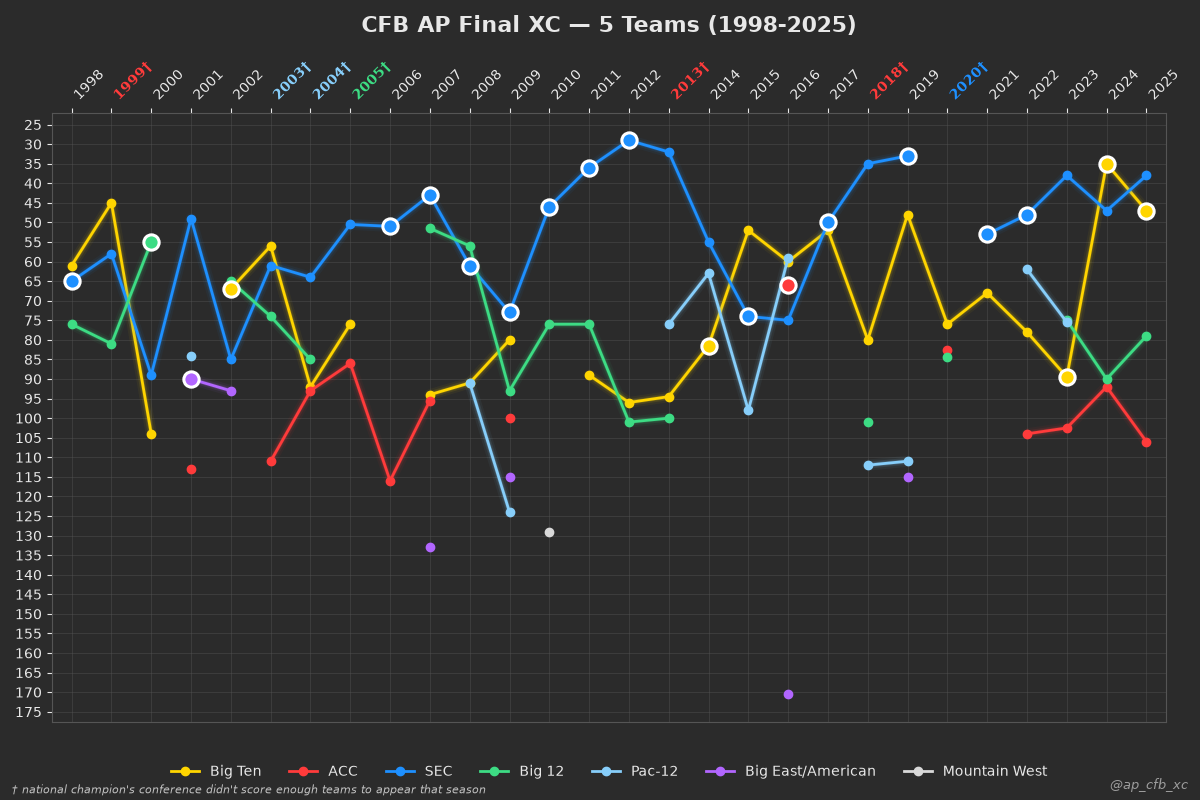
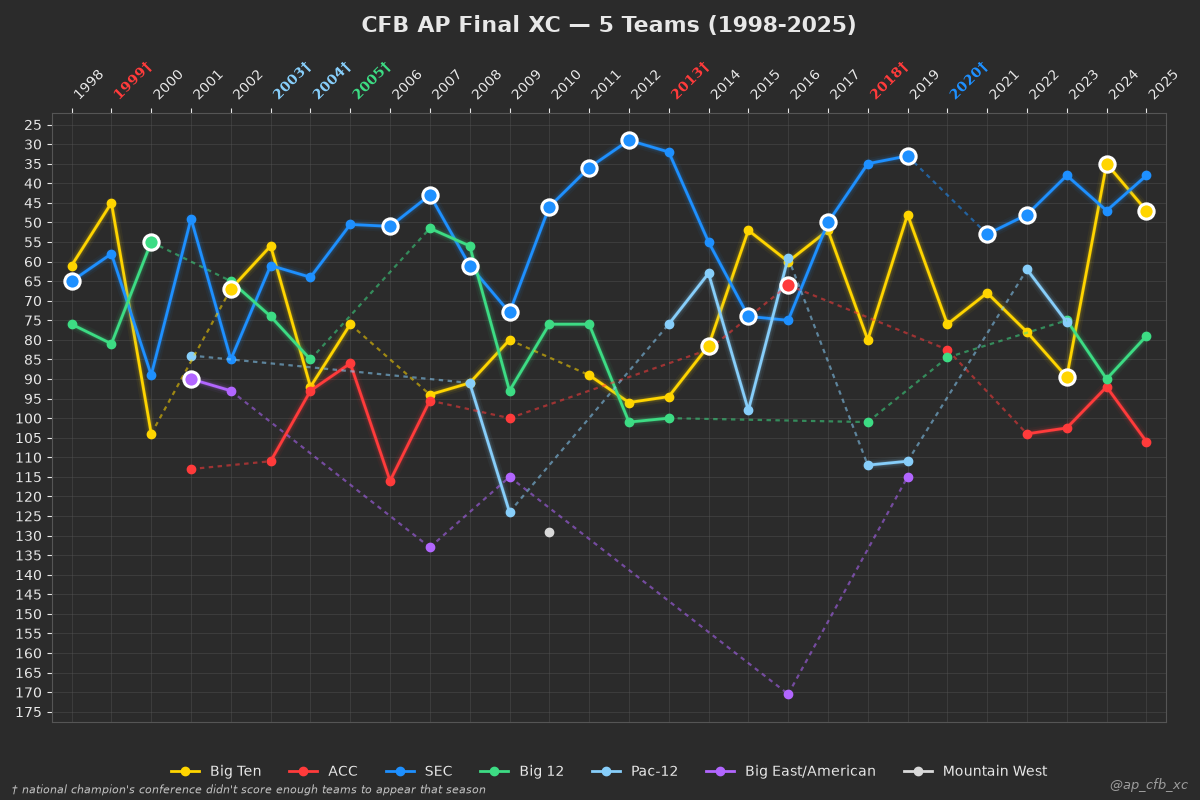
Add dashed lines between nonconsecutive results in all graphs

Changed region(s): [[0.4933, 0.4688, 0.5242, 0.5]]

diff --git a/graph_data.py b/graph_data.py
@@ -69,6 +69,37 @@ def _color_for_conference(name, fallback_cycle):
     return CONFERENCE_COLORS.get(name) or next(fallback_cycle)
 
 
+def _draw_dns_gap_bridges(ax, df_cleaned, column_colors):
+    """For each conference, draw a thin dotted line straight across any DNS gap - connecting its
+    two closest surrounding scored points - instead of just leaving a blank stretch. Experimental
+    (per user request): meant to help the eye track a conference's trend through a season or two
+    where it briefly didn't score, without implying it actually had a score in between.
+
+    Only bridges a genuine DNS gap (at least one *other* conference has data somewhere in that
+    stretch, proving those weeks/years actually happened); never bridges into the trailing
+    not-yet-reached weeks of an in-progress season, where nothing has data yet and there's nothing
+    real to connect.
+    """
+    any_data_mask = df_cleaned.notna().any(axis=1)
+    for column in df_cleaned.columns:
+        series = df_cleaned[column]
+        valid_positions = [i for i, v in enumerate(series.values) if pd.notna(v)]
+        for start, end in zip(valid_positions, valid_positions[1:]):
+            if end - start <= 1:
+                continue  # adjacent already - the normal solid line connects these
+            if not any_data_mask.iloc[start + 1 : end].any():
+                continue  # nothing scored anywhere in the gap - not-yet-reached weeks, not a DNS
+            ax.plot(
+                [df_cleaned.index[start], df_cleaned.index[end]],
+                [series.iloc[start], series.iloc[end]],
+                color=column_colors[column],
+                linestyle=(0, (2, 2)),
+                linewidth=1.6,
+                alpha=0.55,
+                zorder=2,
+            )
+
+
 _CONFERENCE_NAME_RE = re.compile(r"^\('(?P<name>.*?)',")
 _RANK_NUMBER_RE = re.compile(r"-?\d+\.?\d*")
 
@@ -173,6 +204,10 @@ def generate_graph(
         color = _color_for_conference(column, fallback_cycle)
         column_colors[column] = color
         _glow_plot(ax, df_cleaned.index, df_cleaned[column], color, column)
+
+    # Bridge DNS gaps with a thin dotted line so a conference's trend still reads across a
+    # stretch where it briefly didn't score (see _draw_dns_gap_bridges() docstring for scope)
+    _draw_dns_gap_bridges(ax, df_cleaned, column_colors)
 
     # Mark each period's national-champion conference at its point: same dot and fill color, just
     # larger with a bright white outline (keeps working regardless of which conference color it
